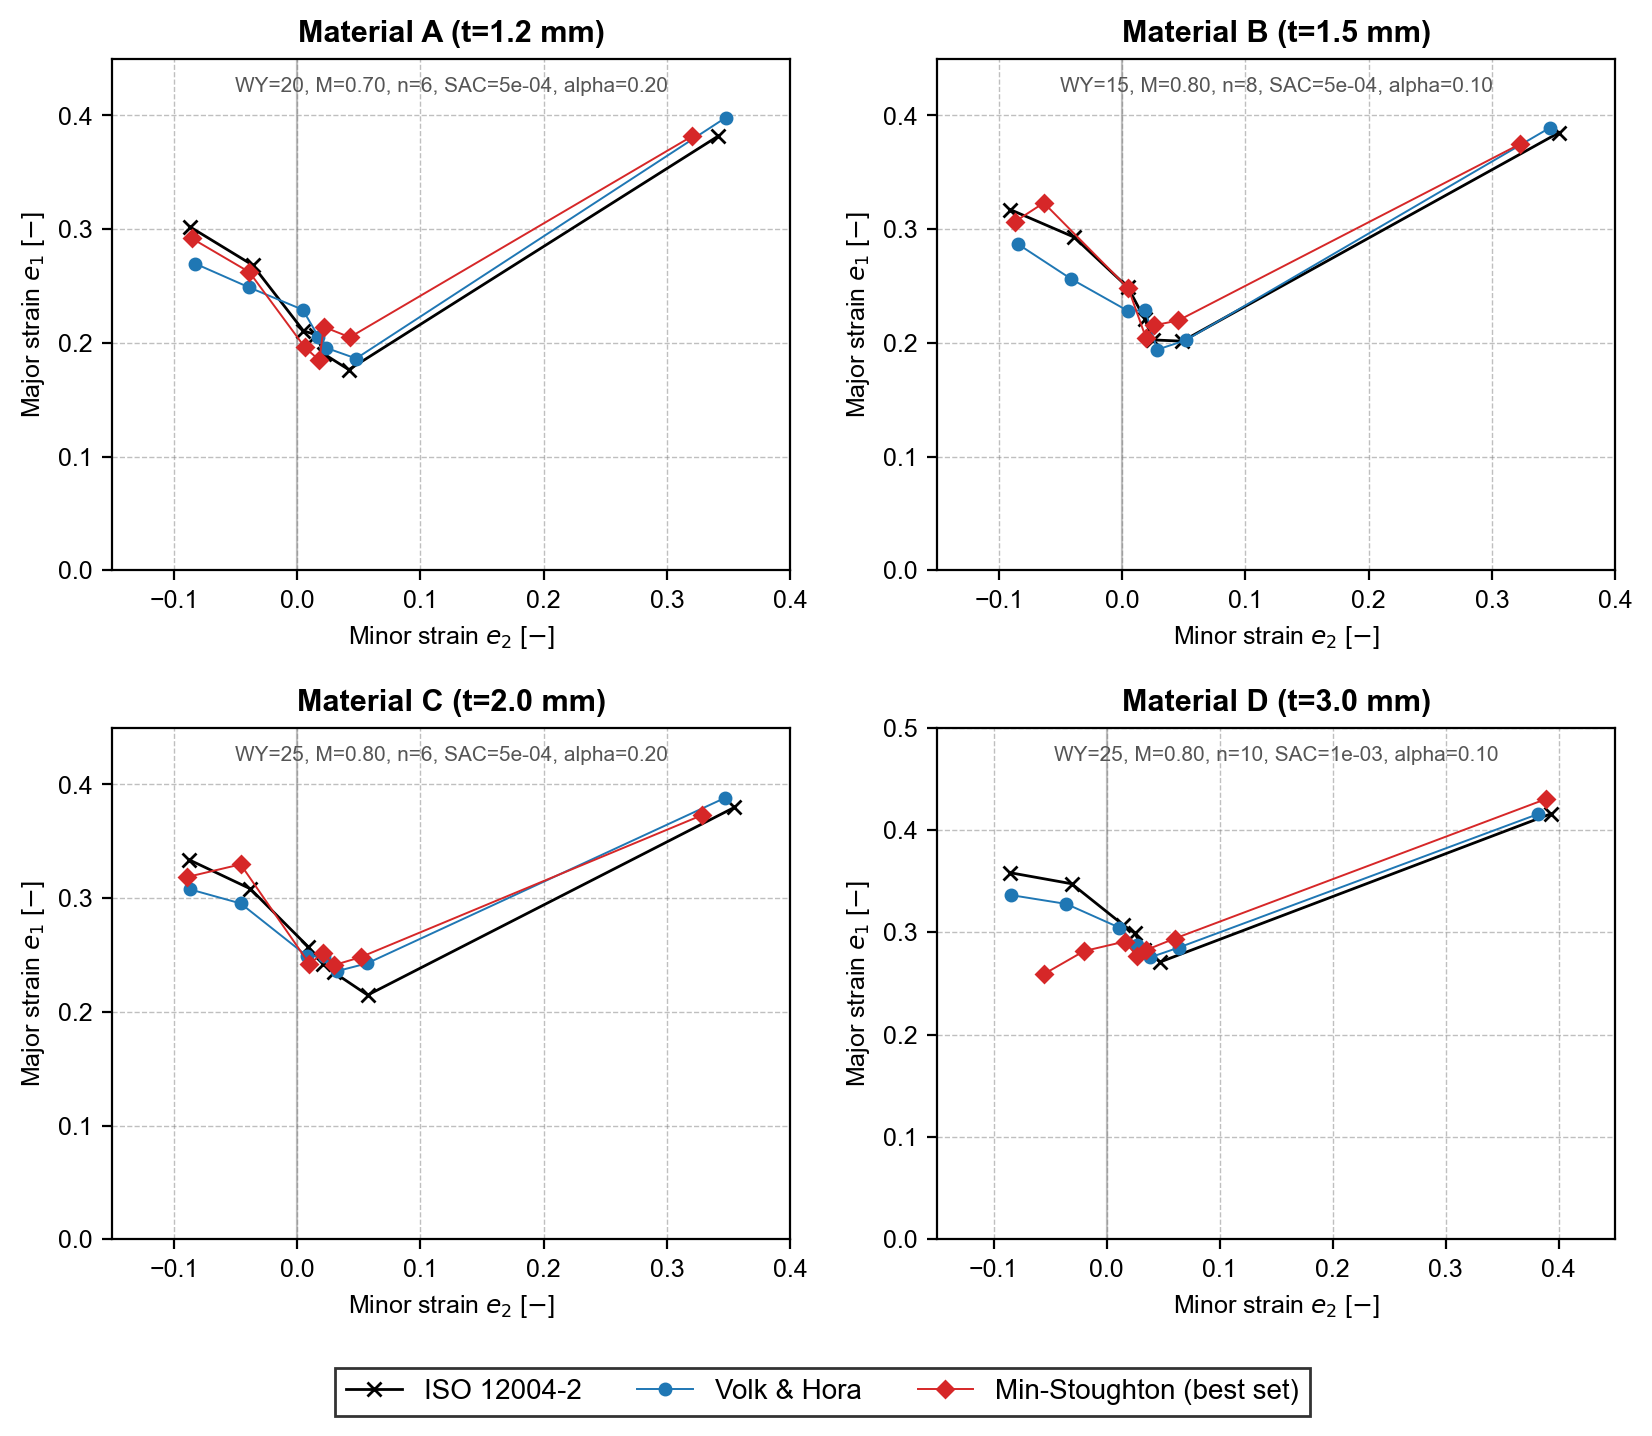
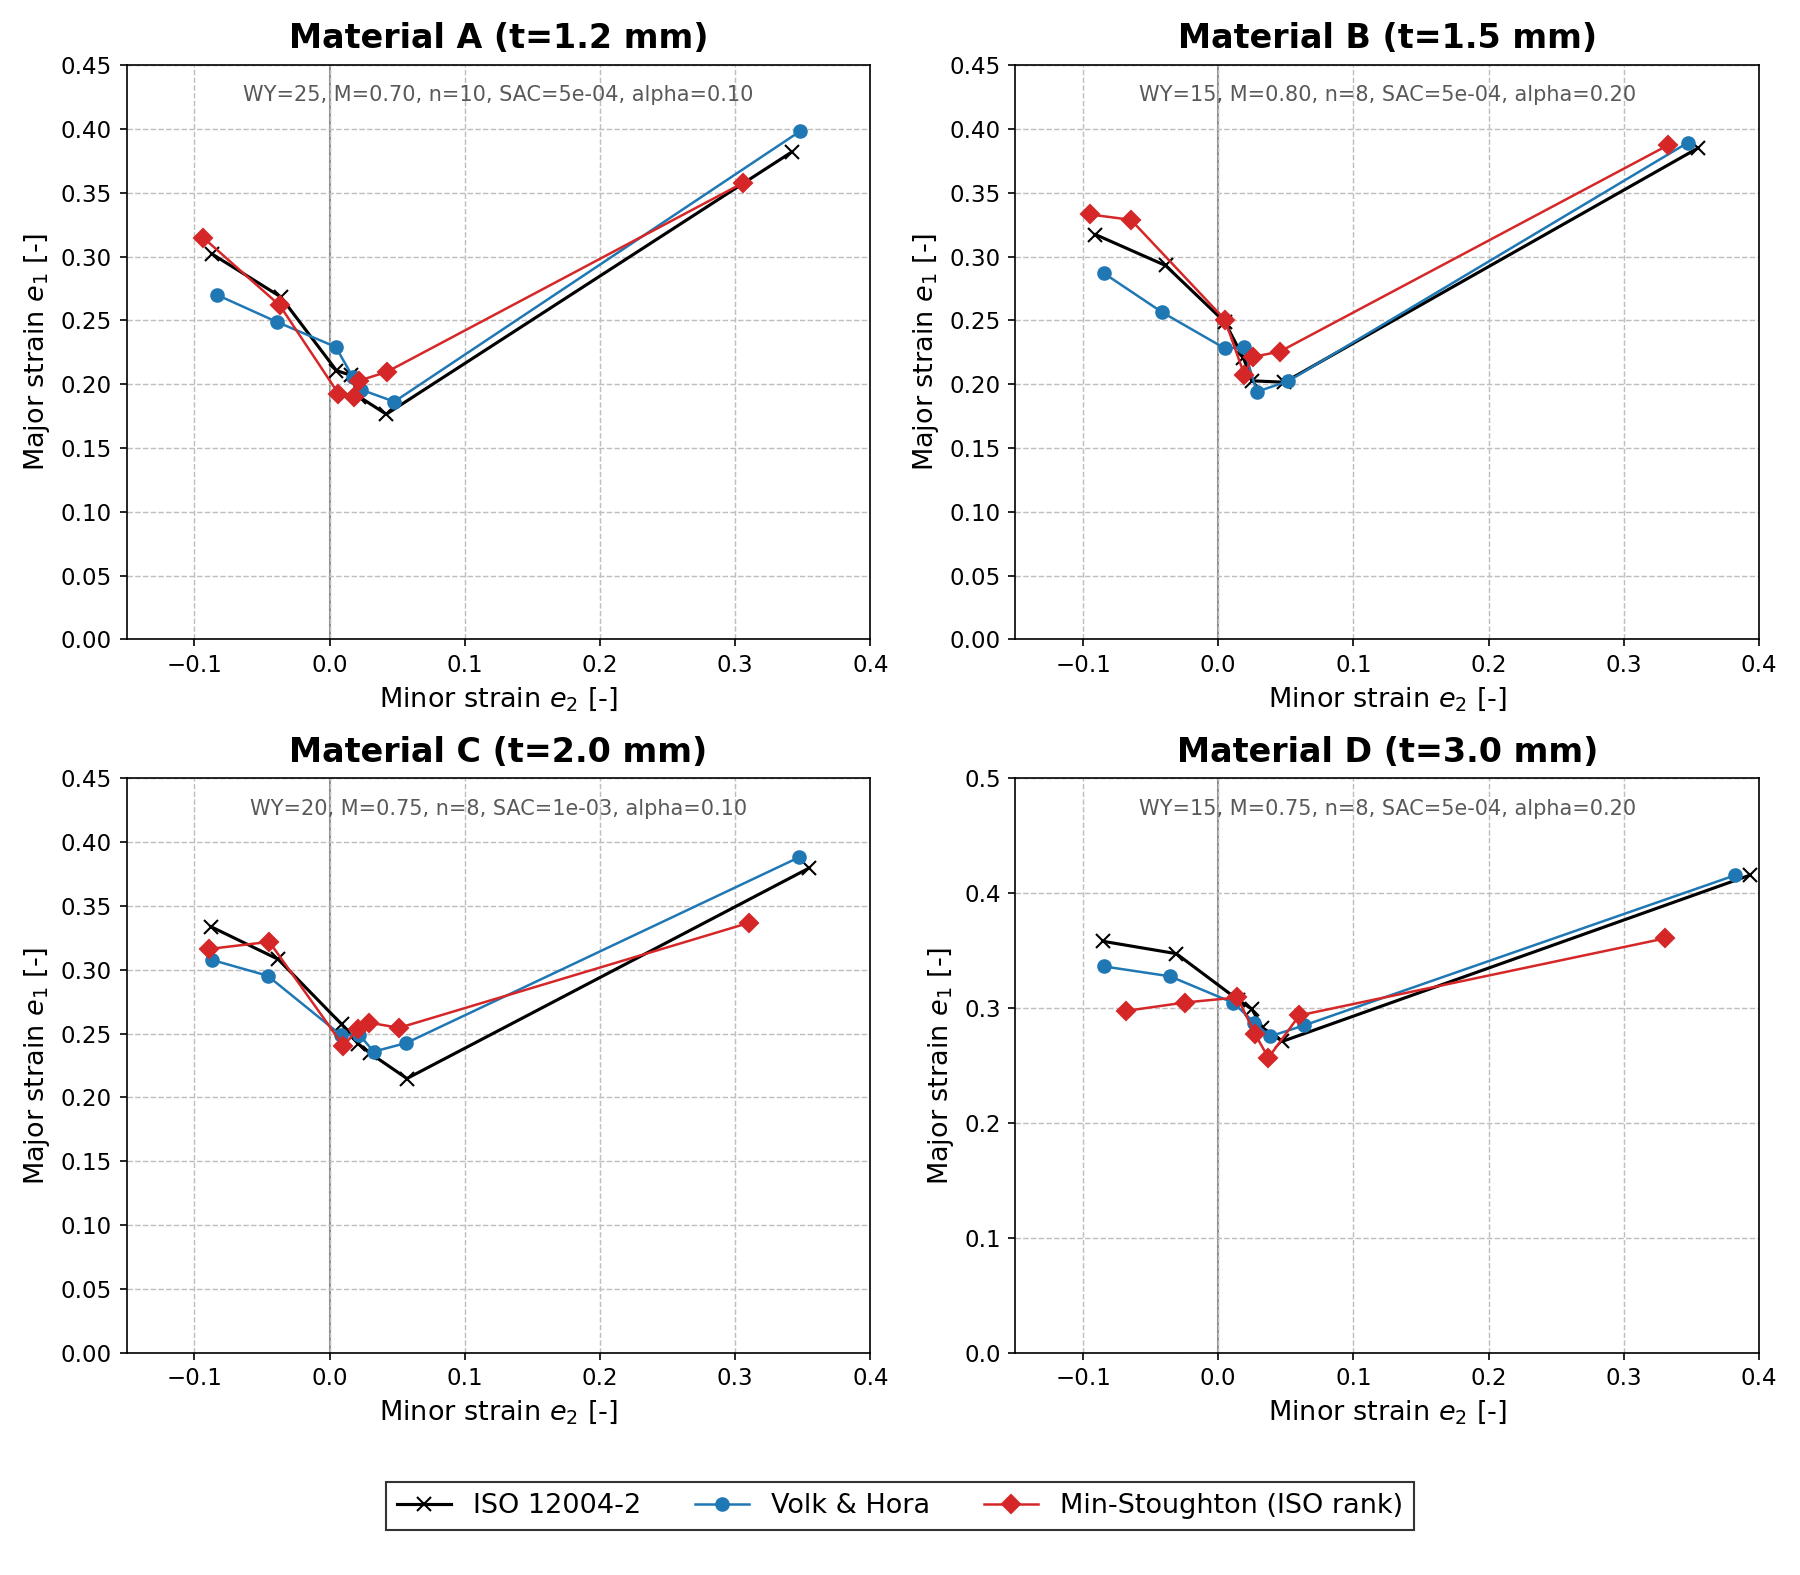
Split Min-Stoughton sweep rankings

diff --git a/report/chapters/results.tex b/report/chapters/results.tex
@@ -385,71 +385,78 @@ four thicknesses (\num{56} samples), covering
 $W_Y\in\{15,20,25\}\,\si{\milli\meter}$,
 $M\in\{0.70,0.75,0.80\}$, $n\in\{6,8,10\}$,
 $\mathrm{SAC}\in\{\num{5e-4},\num{1e-3}\}\,\si{\per\milli\meter}$, and
-$\alpha\in\{0.10,0.20\}$, that is \num{108} parameter sets per sample. Each set
-was screened by its detection rate and by the stored mean
-$|\Delta\varepsilon_1|$ component relative to ISO~12004-2. The sweep export did
-not store the corresponding $|\Delta\varepsilon_2|$ component, so the sweep is
-treated as parameter screening rather than a final quantitative calibration.
-Table~\ref{tab:ms_sweep_thickness} lists the baseline and selected parameter
-sets used in Figure~\ref{fig:flc_ms_comparison_best}, and the complete stored
-$|\Delta\varepsilon_1|$ sweep is tabulated in Appendix~\ref{app:ms_sweep}.
+$\alpha\in\{0.10,0.20\}$, that is \num{108} parameter sets per sample. The Euler
+sweep output stores the detected limit strains for each sample, so two rankings
+are kept separate. The detection rank maximises the number of detected onsets
+and uses the strain errors only to order ties. The ISO-match rank is evaluated
+only for parameter sets detecting at least 13 of 14 samples and is ordered by
+the mean $|\Delta\varepsilon_1|$ relative to ISO~12004-2. The corresponding
+$|\Delta\varepsilon_2|$ value is reported next to it rather than hidden in a
+single distance. The complete compact $|\Delta\varepsilon_1|$ sweep is tabulated
+in Appendix~\ref{app:ms_sweep}.
 
 \begin{table}[H]
     \centering
-    \small
-    \caption[Min--Stoughton parameter screening across thicknesses]{Baseline
-    and selected parameter sets from the sweep. The baseline set is
-    $(W_Y,M,n,\mathrm{SAC},\alpha)=(15,0.80,8,\num{5e-4},0.10)$, and the
-    selected set is the one used in Figure~\ref{fig:flc_ms_comparison_best}.
-    Detection is the number of samples with a detected onset out of 14. No
-    error column is reported here because the sweep export stores
-    $|\Delta\varepsilon_1|$ but not $|\Delta\varepsilon_2|$.}
+    \scriptsize
+    \caption[Min--Stoughton parameter rankings across thicknesses]{Baseline
+    detection, detection-rank, and ISO-match-rank parameter sets from the Euler sweep. The
+    baseline set is
+    $(W_Y,M,n,\mathrm{SAC},\alpha)=(15,0.80,8,\num{5e-4},0.10)$. Detection is
+    the number of samples with a detected onset out of 14. Errors are mean
+    absolute differences to ISO~12004-2, reported separately for
+    $\varepsilon_1$ and $\varepsilon_2$.}
     \label{tab:ms_sweep_thickness}
-    \begin{tabular}{c c l c}
+    \resizebox{\linewidth}{!}{%
+    \begin{tabular}{c c l c c c l c c c}
         \toprule
+        & &
+        \multicolumn{4}{c}{Detection rank} &
+        \multicolumn{4}{c}{ISO-match rank} \\
+        \cmidrule(lr){3-6}\cmidrule(lr){7-10}
         Thickness & Baseline det. &
-        Selected $(W_Y,M,n,\mathrm{SAC},\alpha)$ & Selected det. \\
+        $(W_Y,M,n,\mathrm{SAC},\alpha)$ & det. & $|\Delta\varepsilon_1|$ & $|\Delta\varepsilon_2|$ &
+        $(W_Y,M,n,\mathrm{SAC},\alpha)$ & det. & $|\Delta\varepsilon_1|$ & $|\Delta\varepsilon_2|$ \\
         \midrule
-        A ($\SI{1.2}{\milli\meter}$) & 13/14 & $(20,0.70,6,\num{5e-4},0.20)$ & 13/14 \\
-        B ($\SI{1.5}{\milli\meter}$) & 13/14 & $(15,0.80,8,\num{5e-4},0.10)$ & 13/14 \\
-        C ($\SI{2.0}{\milli\meter}$) & 12/14 & $(25,0.80,6,\num{5e-4},0.20)$ & 14/14 \\
-        D ($\SI{3.0}{\milli\meter}$) & 14/14 & $(25,0.80,10,\num{1e-3},0.10)$ & 13/14 \\
+        A ($\SI{1.2}{\milli\meter}$) & 13/14 &
+        $(25,0.70,8,\num{5e-4},0.10)$ & 14/14 & 0.027 & 0.008 &
+        $(25,0.70,10,\num{5e-4},0.10)$ & 13/14 & 0.020 & 0.005 \\
+        B ($\SI{1.5}{\milli\meter}$) & 13/14 &
+        $(15,0.80,6,\num{1e-3},0.10)$ & 14/14 & 0.044 & 0.013 &
+        $(15,0.80,8,\num{5e-4},0.20)$ & 13/14 & 0.030 & 0.009 \\
+        C ($\SI{2.0}{\milli\meter}$) & 12/14 &
+        $(20,0.75,8,\num{1e-3},0.10)$ & 14/14 & 0.024 & 0.009 &
+        $(20,0.75,8,\num{1e-3},0.10)$ & 14/14 & 0.024 & 0.009 \\
+        D ($\SI{3.0}{\milli\meter}$) & 14/14 &
+        $(15,0.75,6,\num{5e-4},0.20)$ & 14/14 & 0.038 & 0.015 &
+        $(15,0.75,8,\num{5e-4},0.20)$ & 13/14 & 0.036 & 0.015 \\
         \bottomrule
     \end{tabular}
+    }
 \end{table}
 
-Requiring detection of all fourteen samples is not always the best choice. For
-the thinner sheets the fourteenth sample is the stubborn second repetition of
-the biaxial \texttt{W200} geometry, and the only sets that capture it place
-\texttt{W200} far from the reference. For class~B the baseline set is retained,
-so the screening does not suggest a change there. Class~C moves to a longer
-matrix with the larger threshold multiplier $\alpha=0.20$, and class~D also
-favours a longer matrix. A larger threshold delays the detected onset, which
-raises the extracted strain and counteracts the underestimation seen in
-Section~\ref{sec:ms_campaign}. The selected sets remain indicative because
-they were chosen from a stored $|\Delta\varepsilon_1|$ screening metric. A
-final comparison should repeat the sweep with both $|\Delta\varepsilon_1|$ and
-$|\Delta\varepsilon_2|$, followed by held out validation, for example tuning on
-the first repetition and evaluating on the second.
+Requiring detection of all fourteen samples is not always the same as matching
+the ISO curve most closely. For class~A, the best detection set detects all
+samples, while the ISO-match rank reduces both strain errors at the cost of one
+missed sample. For class~C, both rankings select the same set. For class~D, the
+two ranks differ only slightly in the reported errors. These results should
+still be read as parameter screening because the same samples are used for
+ranking and comparison.
 
 Figure~\ref{fig:flc_ms_comparison_best} shows the forming-limit diagrams obtained
-when each thickness uses the selected set from
+when each thickness uses the ISO-match-rank set from
 Table~\ref{tab:ms_sweep_thickness}, in place of the single baseline set of
 Figure~\ref{fig:flc_ms_comparison}. Visually, the curvature curve moves closer
-to the ISO~12004-2 and Volk--Hora references across most of the diagram,
-including the biaxial \texttt{W200} point that the baseline set placed far off.
-The uniaxial branch of the thickest sheet~D still retains a visible offset.
-These sets detect thirteen or fourteen of the fourteen samples, the single miss
-being the extreme biaxial repetition whose forced detection would pull the
-\texttt{W200} point away from the reference.
+to the ISO~12004-2 and Volk--Hora references across most of the diagram. The
+uniaxial branch of the thickest sheet~D still retains a visible offset. These
+sets detect thirteen or fourteen of the fourteen samples.
 
 \begin{figure}[H]
     \centering
     \includegraphics[width=\linewidth]{img/flc_ms_comparison_best.png}
-    \caption[Forming-limit comparison with the selected parameter set per thickness]{Forming-limit
+    \caption[Forming-limit comparison with the ISO-match parameter set per thickness]{Forming-limit
     diagram comparison of the ISO~12004-2 ($\times$), Volk--Hora ($\circ$), and
     Min--Stoughton ($\diamond$) criteria, with the Min--Stoughton curve evaluated
-    using each thickness's selected parameter set from
+    using each thickness's ISO-match-rank parameter set from
     Table~\ref{tab:ms_sweep_thickness} (annotated in each panel) rather than the
     single baseline set of Figure~\ref{fig:flc_ms_comparison}. Each marker is the
     mean over the two repetitions of a width.}

diff --git a/report/chapters/ms_sweep_table.tex b/report/chapters/ms_sweep_table.tex
@@ -1,7 +1,7 @@
 \begingroup\scriptsize
 \setlength{\tabcolsep}{4pt}
 \begin{longtable}{c c c c c c c c c c c c c}
-\caption[Complete Min--Stoughton parameter sweep]{Complete Min--Stoughton parameter sweep over the four sheet thicknesses (rolling direction, \SI{100}{\milli\meter} punch). $W_Y$ is in \si{\milli\meter} and SAC in \si{\per\milli\meter}. For each parameter set, ``det'' is the number of the 14 samples (seven widths, two repetitions) with a detected onset. The numeric component retained in this appendix is $|\Delta\varepsilon_1|$. The matching $|\Delta\varepsilon_2|$ summary was not exported in this sweep table.}\label{tab:ms_sweep_full}\\
+\caption[Complete Min--Stoughton parameter sweep]{Complete Min--Stoughton parameter sweep over the four sheet thicknesses (rolling direction, \SI{100}{\milli\meter} punch). $W_Y$ is in \si{\milli\meter} and SAC in \si{\per\milli\meter}. For each parameter set, ``det'' is the number of the 14 samples (seven widths, two repetitions) with a detected onset. The compact table retains $|\Delta\varepsilon_1|$ for traceability. The matching $|\Delta\varepsilon_2|$ values are used in the ranking summary of Section~\ref{sec:ms_sweep_thickness}, but are omitted here to keep the table readable.}\label{tab:ms_sweep_full}\\
 \toprule
  & & & & & \multicolumn{2}{c}{A (\SI{1.2}{\milli\meter})} & \multicolumn{2}{c}{B (\SI{1.5}{\milli\meter})} & \multicolumn{2}{c}{C (\SI{2.0}{\milli\meter})} & \multicolumn{2}{c}{D (\SI{3.0}{\milli\meter})}\\
 \cmidrule(lr){6-7}\cmidrule(lr){8-9}\cmidrule(lr){10-11}\cmidrule(lr){12-13}

diff --git a/report/chapters/preamble.tex b/report/chapters/preamble.tex
@@ -28,9 +28,9 @@ criterion and applies it to the \num{56} DIC samples of the rolling direction,
 detects 12 to 14 of 14 samples per thickness, with mean
 $|\Delta\varepsilon_1|$ values to ISO~12004-2 of \num{0.014} to \num{0.046}
 and mean $|\Delta\varepsilon_2|$ values of \num{0.007} to \num{0.016}.
-A thickness dependent sweep indicates parameter sensitivity, but final
-recalibration should report both $|\Delta\varepsilon_1|$ and
-$|\Delta\varepsilon_2|$ for every parameter set.
+A thickness dependent sweep indicates parameter sensitivity, with separate
+detection and ISO-match rankings reported through
+$|\Delta\varepsilon_1|$ and $|\Delta\varepsilon_2|$.
 
 The numerical part implements an automated \software{Abaqus/Explicit} workflow
 for Nakazima, Marciniak, and Punch in Punch simulations, including model

diff --git a/report/chapters/appendix.tex b/report/chapters/appendix.tex
@@ -140,9 +140,9 @@ Table~\ref{tab:ms_sweep_full} lists the complete Min--Stoughton parameter sweep
 summarised in Section~\ref{sec:ms_sweep_thickness}. Each of the 108 parameter
 sets was applied to all 14 rolling-direction samples of every thickness. The
 table below retains the stored detection rate and $|\Delta\varepsilon_1|$
-component for traceability. The corresponding $|\Delta\varepsilon_2|$ summary
-was not exported in this sweep table and should be added for a final
-calibration.
+component for traceability. The $|\Delta\varepsilon_2|$ component is used in the
+ranking summary of Section~\ref{sec:ms_sweep_thickness}, but is omitted from
+the long table to keep it readable.
 
 \input{chapters/ms_sweep_table}
 
